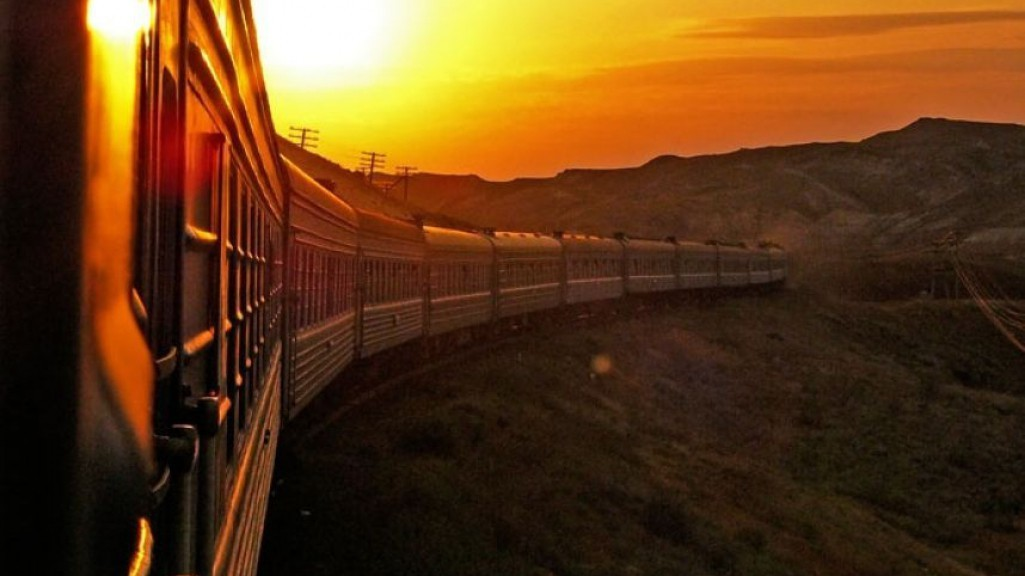
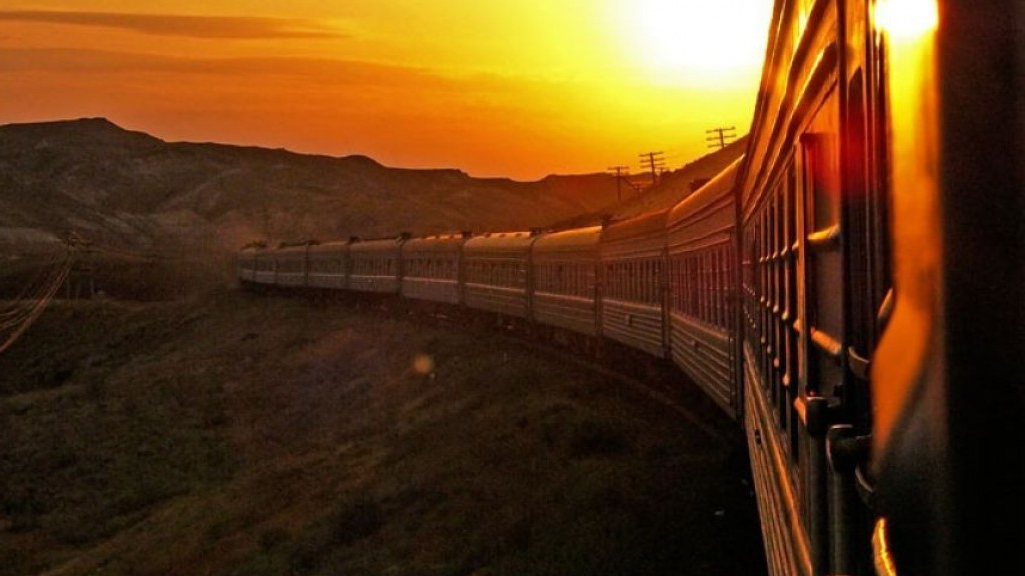
feat(header) picker placed

diff --git a/src/components/Header/Header.module.scss b/src/components/Header/Header.module.scss
@@ -15,7 +15,6 @@
     width      : 100%;
     height     : 100%;
     opacity    : 0.85;
-    transform  : matrix(-1, 0, 0, 1, 0, 0);
     object-fit : cover;
   }
   
@@ -65,4 +64,13 @@
   margin       : 0;
   padding-top  : 330px;
   padding-left : 290px;
+}
+
+.picker_holder {
+  margin-top : 253px;
+  padding    : 80px 25px;
+  box-sizing : border-box;
+  width      : 729px;
+  height     : 574px;
+  background : rgba(41, 41, 41, 0.8);
 }

diff --git a/src/components/Header/Header.tsx b/src/components/Header/Header.tsx
@@ -53,7 +53,9 @@ export const Header = memo<Props>(({ className }) => {
             </div>
           </div>
           <div className={s.header__controls_col}>
-            <Logo />
+            <div className={s.picker_holder}>
+              <Logo />
+            </div>
           </div>
         </div>
       </div>

diff --git a/README.md b/README.md
@@ -1,30 +1,41 @@
 # Дипломная работа к профессии frontend-разработчик (Система бронирования ЖД билетов)
 
+[![Build status](https://ci.appveyor.com/api/projects/status/bd74oa5cako2b884?svg=true)](https://ci.appveyor.com/project/vapanov/fe-dev-diplom)
+
 ### Краткое описание задачи дипломной работы:
-Создать SPA на React для сервиса покупки билетов на ж/д, сверстанное по [макетам в Figma](https://www.figma.com/file/7981GjEsjSpBUKolk4xFoT/%D0%97%D0%B0%D0%BA%D0%B0%D0%B7-%D0%B1%D0%B8%D0%BB%D0%B5%D1%82%D0%BE%D0%B2?node-id=0%3A1), в котором в качестве Апи используется [внешний сервер](https://fe-diplom.herokuapp.com/).
+
+Создать SPA на React для сервиса покупки билетов на ж/д, сверстанное
+по [макетам в Figma](https://www.figma.com/file/7981GjEsjSpBUKolk4xFoT/%D0%97%D0%B0%D0%BA%D0%B0%D0%B7-%D0%B1%D0%B8%D0%BB%D0%B5%D1%82%D0%BE%D0%B2?node-id=0%3A1)
+, в котором в качестве Апи используется [внешний сервер](https://fe-diplom.herokuapp.com/).
 
 ## План работ:
-1.	Не паникуйте
-1.	Внимательно рассмотрите [макеты в Figma](https://www.figma.com/file/7981GjEsjSpBUKolk4xFoT/%D0%97%D0%B0%D0%BA%D0%B0%D0%B7-%D0%B1%D0%B8%D0%BB%D0%B5%D1%82%D0%BE%D0%B2?node-id=0%3A1), определите для себя план вёрстки макетов, выделите  общие компоненты.
-1.	Верстайте страницы придерживаясь  [правил именования по БЭМ](https://ru.bem.info/methodology/naming-convention/).
-1.	[Создайте приложение React](https://github.com/facebook/create-react-app).
-1.	Используя сверстанные ранее страницы, итеративно наполняйте ваше React-приложение функционалом.
-1.	Проверьте, всё ли работает.
-1.	Отправьте ссылку вашего проекта на github или расшаренную папку дипломному руководителю на проверку.
 
-В качестве заготовки можно взять https://bitbucket.org/sesdew/fe-git-example/src/master/ - это пустой репозиторий с прописанным .gitignore для проектов на react, 
+1. Не паникуйте
+1. Внимательно
+   рассмотрите [макеты в Figma](https://www.figma.com/file/7981GjEsjSpBUKolk4xFoT/%D0%97%D0%B0%D0%BA%D0%B0%D0%B7-%D0%B1%D0%B8%D0%BB%D0%B5%D1%82%D0%BE%D0%B2?node-id=0%3A1)
+   , определите для себя план вёрстки макетов, выделите общие компоненты.
+1. Верстайте страницы придерживаясь  [правил именования по БЭМ](https://ru.bem.info/methodology/naming-convention/).
+1. [Создайте приложение React](https://github.com/facebook/create-react-app).
+1. Используя сверстанные ранее страницы, итеративно наполняйте ваше React-приложение функционалом.
+1. Проверьте, всё ли работает.
+1. Отправьте ссылку вашего проекта на github или расшаренную папку дипломному руководителю на проверку.
 
-"Заливайте" изменения на github или в файлообменник хотя бы раз в день (сгорит жесткий диск, пропадет ноутбук или из-за скачка напряжения все данные на ПК «самоудалятся», то всегда будет резервная копия с отставанием максимум в день).
+В качестве заготовки можно взять https://bitbucket.org/sesdew/fe-git-example/src/master/ - это пустой репозиторий с
+прописанным .gitignore для проектов на react,
+
+"Заливайте" изменения на github или в файлообменник хотя бы раз в день (сгорит жесткий диск, пропадет ноутбук или из-за
+скачка напряжения все данные на ПК «самоудалятся», то всегда будет резервная копия с отставанием максимум в день).
 
 ## Что является итогом работы?
-1.	Репозиторий на github с файлами вашего проекта
+
+1. Репозиторий на github с файлами вашего проекта
 
 или
 
-2.	Папка на Yandex/Google диске c файлами вашего проекта(без node_modules) - применимо только если совершенно ни в каком контексте не проходили Git
+2. Папка на Yandex/Google диске c файлами вашего проекта(без node_modules) - применимо только если совершенно ни в каком
+   контексте не проходили Git
 
 ## Описание проекта
-
 
 ### Основные элементы
 
@@ -38,12 +49,12 @@
 1. Вагон может быть одним из типов: сидячий, люкс (СВ), купе, плацкарт
 1. У каждого типа вагона своя карта рассадки мест.
 1. У каждого вагона своя стоимость билетов.
-1. Для каждого вагона есть возможность выбора дополнительных услуг: 
-бельё, кондиционер и Wi-Fi.
-1. Для некоторых вагонов стоимость белья включена в стоимость билета 
-(стоимость белья не должна прибавляться при формировании конечной стоимости билета).
+1. Для каждого вагона есть возможность выбора дополнительных услуг:
+   бельё, кондиционер и Wi-Fi.
+1. Для некоторых вагонов стоимость белья включена в стоимость билета
+   (стоимость белья не должна прибавляться при формировании конечной стоимости билета).
 
-## Направление 
+## Направление
 
 1. Направление - путь движения вагона из одного города в другой.
 1. Направление предполагает движение поезда только в одну сторону.
@@ -51,8 +62,7 @@
 
 ## Группа направлений
 
-1. Используется для того, чтобы обеспечить возможность
-путешествия из одного города в другой и обратно.
+1. Используется для того, чтобы обеспечить возможность путешествия из одного города в другой и обратно.
 1. Объединяет в себе два направления
 
 ## Место (билет)
@@ -61,22 +71,25 @@
 1. Может быть занято другим пассажиром
 1. Закреплено за конкретным направлением
 
-
 ### Далее [Информация по API](./reference/api.md)
 
 ### Как правильно задавать вопросы дипломному руководителю?
 
 **Что следует делать, чтобы все получилось:**
 
-* Попробовать найти ответ сначала самому в интернете. Ведь, именно это скилл поиска ответов пригодится тебе на первой работе. И только после этого спрашивать дипломного руководителя
-* В одном вопросе должна быть заложена одна проблема 
-* По возможности, прикреплять к вопросу скриншоты и стрелочкой показывать где не получается. Программу для этого можно скачать здесь https://app.prntscr.com/ru/
-* По возможности, задавать вопросы в комментариях к коду. 
-* Начинать работу над дипломом как можно раньше! Чтобы было больше времени на правки. 
-* Делать диплом по-частям, а не все сразу. Иначе, есть шанс, что нужно будет все переделывать :)  
+* Попробовать найти ответ сначала самому в интернете. Ведь, именно это скилл поиска ответов пригодится тебе на первой
+  работе. И только после этого спрашивать дипломного руководителя
+* В одном вопросе должна быть заложена одна проблема
+* По возможности, прикреплять к вопросу скриншоты и стрелочкой показывать где не получается. Программу для этого можно
+  скачать здесь https://app.prntscr.com/ru/
+* По возможности, задавать вопросы в комментариях к коду.
+* Начинать работу над дипломом как можно раньше! Чтобы было больше времени на правки.
+* Делать диплом по-частям, а не все сразу. Иначе, есть шанс, что нужно будет все переделывать :)
 
 **Что следует делать, чтобы ничего не получилось:**
 
 * Писать вопросы вида “Ничего не работает. Не запускается. Всё сломалось.”
-* Откладывать диплом на потом. 
-* Ждать ответ на свой вопрос моментально. Дипломные руководители - работающие разработчики, которые занимаются, кроме преподавания, своими проектами. Их время ограничено, поэтому постарайтесь задавать правильные вопросы, чтобы получать быстрые ответы! 
+* Откладывать диплом на потом.
+* Ждать ответ на свой вопрос моментально. Дипломные руководители - работающие разработчики, которые занимаются, кроме
+  преподавания, своими проектами. Их время ограничено, поэтому постарайтесь задавать правильные вопросы, чтобы получать
+  быстрые ответы! 
